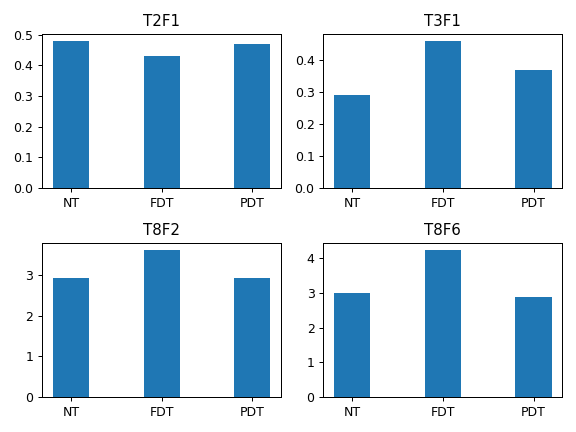
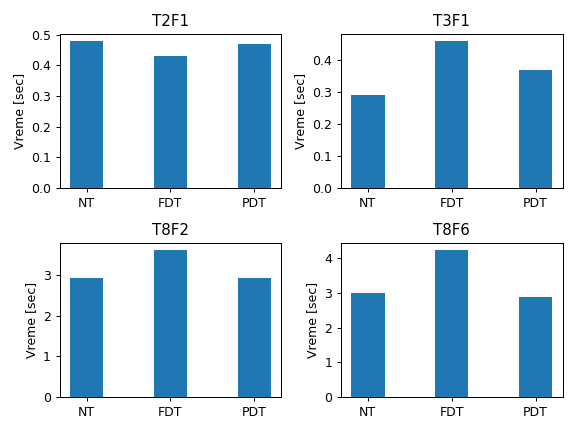
Add time[s] label

diff --git a/results_presentation.py b/results_presentation.py
@@ -14,16 +14,19 @@ fig, ((ax0, ax1), (ax2, ax3)) = plt.subplots(nrows=2, ncols=2)
 
 ax0.bar(models, [0.9, 0.81, 0.88], width = 0.4)
 ax0.set_title('T2F1')
-ax0.set_xlabel('Vreme [sec]')
+ax0.set_ylabel('Vreme [sec]')
 
 ax1.bar(models, [7, 11.11, 8.93], width = 0.4)
 ax1.set_title('T3F1')
+ax1.set_ylabel('Vreme [sec]')
 
 ax2.bar(models, [7.03, 8.65, 6.98], width = 0.4)
 ax2.set_title('T8F2')
+ax2.set_ylabel('Vreme [sec]')
 
 ax3.bar(models, [7.24, 10.15, 6.93], width = 0.4)
 ax3.set_title('T8F6')
+ax3.set_ylabel('Vreme [sec]')
 
 fig.tight_layout()
 plt.savefig("./MySQL_absolute.png", dpi = 90)
@@ -33,15 +36,19 @@ fig, ((ax0, ax1), (ax2, ax3)) = plt.subplots(nrows=2, ncols=2)
 
 ax0.bar(models, [0.48, 0.43, 0.47], width = 0.4)
 ax0.set_title('T2F1')
+ax0.set_ylabel('Vreme [sec]')
 
 ax1.bar(models, [0.29, 0.46, 0.37], width = 0.4)
 ax1.set_title('T3F1')
+ax1.set_ylabel('Vreme [sec]')
 
 ax2.bar(models, [2.93, 3.6, 2.91], width = 0.4)
 ax2.set_title('T8F2')
+ax2.set_ylabel('Vreme [sec]')
 
 ax3.bar(models, [3.01, 4.23, 2.88], width = 0.4)
 ax3.set_title('T8F6')
+ax3.set_ylabel('Vreme [sec]')
 
 fig.tight_layout()
 plt.savefig("./MySQL_relative.png", dpi = 90)
@@ -50,6 +57,7 @@ plt.show()
 
 plt.bar(['RNTT2F1', 'RFDTT2F1', 'RPDTT2F1'], [12.438, 0.187, 2.328], width = 0.4)
 plt.savefig("./MySQL_additional_analysis.png", dpi = 90)
+plt.ylabel('Vreme [sec]')
 plt.show()
 
 
@@ -57,15 +65,19 @@ fig, ((ax0, ax1), (ax2, ax3)) = plt.subplots(nrows=2, ncols=2)
 
 ax0.bar(models, [3.44, 1.33, 1.36], width = 0.4)
 ax0.set_title('T2F1')
+ax0.set_ylabel('Vreme [sec]')
 
 ax1.bar(models, [2.2, 6.42, 5.41], width = 0.4)
 ax1.set_title('T3F1')
+ax1.set_ylabel('Vreme [sec]')
 
 ax2.bar(models, [1.54, 1.42, 3.71], width = 0.4)
 ax2.set_title('T8F2')
+ax2.set_ylabel('Vreme [sec]')
 
 ax3.bar(models, [2.38, 5.31, 2.35], width = 0.4)
 ax3.set_title('T8F6')
+ax3.set_ylabel('Vreme [sec]')
 
 fig.tight_layout()
 plt.savefig("./SQL_Server_absolute.png", dpi = 90)
@@ -75,15 +87,19 @@ fig, ((ax0, ax1), (ax2, ax3)) = plt.subplots(nrows=2, ncols=2)
 
 ax0.bar(models, [1.86, 0.72, 0.73], width = 0.4)
 ax0.set_title('T2F1')
+ax0.set_ylabel('Vreme [sec]')
 
 ax1.bar(models, [0.09, 0.26, 0.22], width = 0.4)
 ax1.set_title('T3F1')
+ax1.set_ylabel('Vreme [sec]')
 
 ax2.bar(models, [0.64, 0.59, 1.54], width = 0.4)
 ax2.set_title('T8F2')
+ax2.set_ylabel('Vreme [sec]')
 
 ax3.bar(models, [0.99, 2.21, 0.98], width = 0.4)
 ax3.set_title('T8F6')
+ax3.set_ylabel('Vreme [sec]')
 
 fig.tight_layout()
 plt.savefig("./SQL_Server_relative.png", dpi = 90)
